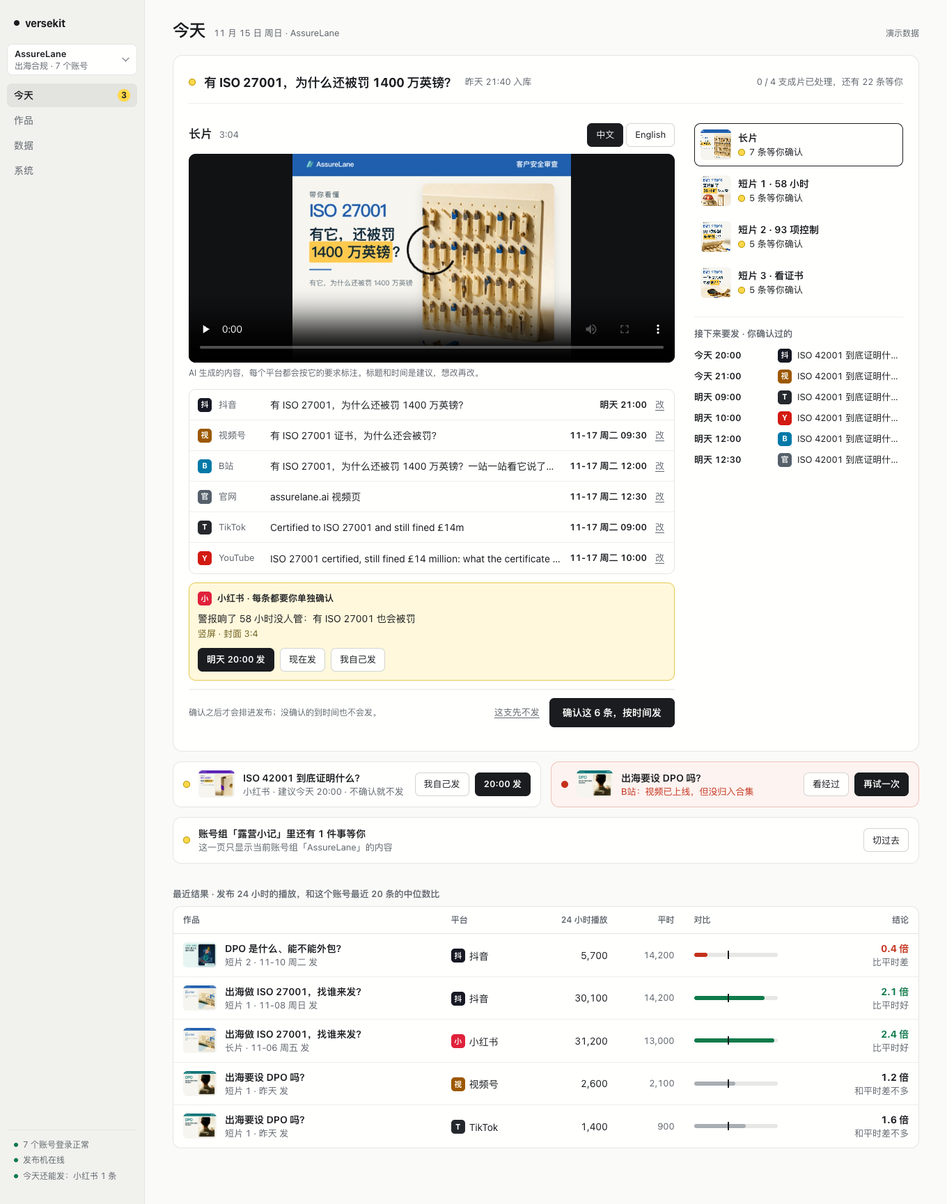
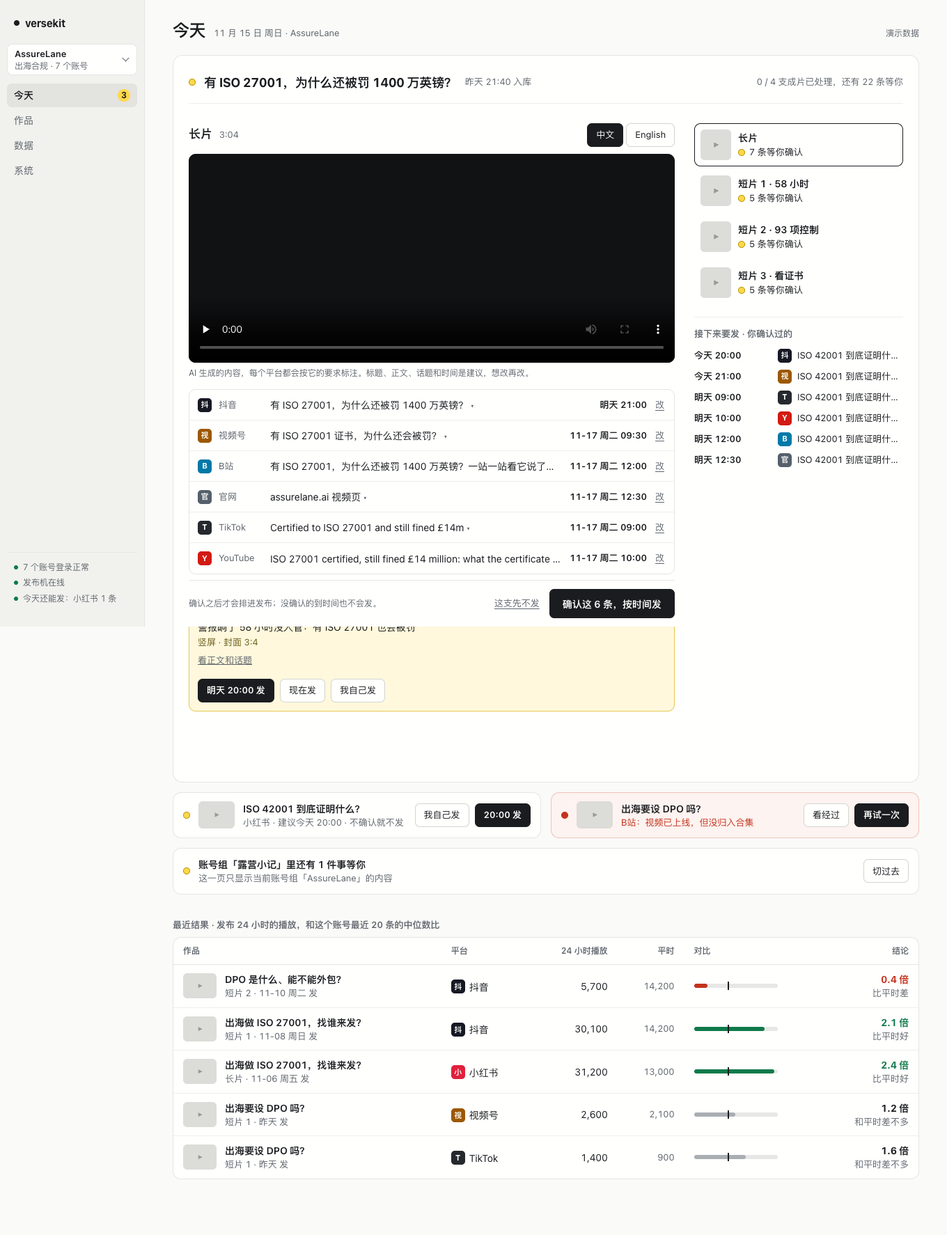
feat(web): 确认时看得到、改得了每个平台的正文和话题（#175） (#182)
* feat(web): 确认时看得到、改得了每个平台的正文和话题（#175）

确认只显示标题和时间，等于看不到发出去的内容。先改原型和任务书，再让面板每行可展开、
可改正文与话题；publish.edit 加 body/tags（按平台文案限制校验，超限不截断）；
飞书确认卡片带正文前 3 行和话题。

* fix(cli): vk publish edit 支持 --body/--tags，并重拍受影响的 v2 基线截图（#175）

CLI 完整律：Web 能改的正文和话题，CLI 也要能改。--body/--tags 要登记为带值参数，
否则会被当成布尔开关而报用法错误。原型改了展开入口，基线截图同步重拍。

* fix(core): publish.edit 的空正文不再被 parseArgs 丢掉，清空正文真正生效（#175）

可选参数的空字符串一律当没填，导致 CLI/HTTP/Web 清空正文都被静默吞掉。
只对 publish.edit 的 body 保留空串，其他可选参数行为不变。

---------

diff --git a/docs/design/app.js b/docs/design/app.js
@@ -26,10 +26,10 @@ const WORKS = [
       { id: 'long', name: '长片', dur: '3:04', poster: CV + 'iso27001-machine-4x3.jpg',
         versions: [['中文', VID + 'renders/iso27001-machine.mp4'], ['English', VID + 'en/renders/iso27001-machine-en-16x9.mp4']],
         pubs: [
-          p('xhs', '2026-11-16T20:00', '警报响了 58 小时没人管：有 ISO 27001 也会被罚', { solo: true, note: '竖屏 · 封面 3:4' }),
-          p('dy', '2026-11-16T21:00', '有 ISO 27001，为什么还被罚 1400 万英镑？'),
+          p('xhs', '2026-11-16T20:00', '警报响了 58 小时没人管：有 ISO 27001 也会被罚', { solo: true, note: '竖屏 · 封面 3:4', body: 'Capita 持有 ISO 27001，警报响了 58 小时没人处理，最后被罚 1400 万英镑。\n证书证明的是“有流程”，不是“流程被执行”。\n看完这条，你能知道审核时该盯哪三处。', tags: ['ISO27001', '信息安全', '合规', '出海'] }),
+          p('dy', '2026-11-16T21:00', '有 ISO 27001，为什么还被罚 1400 万英镑？', { body: '证书不等于安全：Capita 的 58 小时警报事件，说明了什么。', tags: ['ISO27001', '信息安全'] }),
           p('sph', '2026-11-17T09:30', '有 ISO 27001 证书，为什么还会被罚？'),
-          p('bili', '2026-11-17T12:00', '有 ISO 27001，为什么还被罚 1400 万英镑？一站一站看它说了什么、没说什么', { note: '发完归入合集「出海合规」' }),
+          p('bili', '2026-11-17T12:00', '有 ISO 27001，为什么还被罚 1400 万英镑？一站一站看它说了什么、没说什么', { note: '发完归入合集「出海合规」', body: '0:00 事件经过\n1:10 证书到底证明什么\n2:20 审核时该盯哪三处', tags: ['ISO27001', '合规', '科普'] }),
           p('web', '2026-11-17T12:30', 'assurelane.ai 视频页'),
           p('tk', '2026-11-17T09:00', 'Certified to ISO 27001 and still fined £14m', { lang: 'English' }),
           p('yt', '2026-11-17T10:00', 'ISO 27001 certified, still fined £14 million: what the certificate says and what it doesn’t', { lang: 'English' }),
@@ -156,10 +156,15 @@ function initShell() {
   listeners.push(upd); upd();
 }
 
+// 正文与话题：展开看；为空就明说「没有正文」「没有话题」，不阻止确认。
+const tagList = (text) => [...new Set(String(text || '').split(/[,，、\s]+/).map((t) => t.trim().replace(/^#+/, '')).filter(Boolean))];
+const detHtml = (x) => `<div class="pdet"><div class="dl"><span class="k">正文</span><div class="bd">${x.body ? esc(x.body) : '<span class="none">没有正文</span>'}</div></div><div class="dl"><span class="k">话题</span>${(x.tags || []).length ? `<div class="tags">${x.tags.map((t) => `<span class="tag">#${esc(t)}</span>`).join('')}</div>` : '<div class="bd"><span class="none">没有话题</span></div>'}</div></div>`;
+const editFields = (x, i, name) => `<div class="ef"><label class="lab" for="b${i}">正文</label><textarea id="b${i}" data-body="${i}" aria-label="${name} 正文">${esc(x.body || '')}</textarea><label class="lab" for="t${i}">话题（用逗号或空格分开）</label><input type="text" id="t${i}" value="${esc((x.tags || []).map((t) => '#' + t).join(' '))}" data-tags="${i}" aria-label="${name} 话题"></div>`;
+
 // ---------- 成片面板：视频 + 各平台一行 + 小红书单独一块 + 一个确认按钮。发过的成片也用它，只是每行换成结果。
 function confirmPanel(work, cut, opts = {}) {
   const el = $(`<section class="cp ${cut.vert ? 'vert' : ''}" aria-label="${esc(cut.name)}"></section>`);
-  let ver = 0; const editing = new Set(); const one = work.cuts.length === 1;
+  let ver = 0; const editing = new Set(); const opened = new Set(); const one = work.cuts.length === 1;
   const render = () => {
     const batch = cutBatch(cut); const solo = cut.pubs.filter((x) => x.solo && x.state !== 'published'); const rest = cut.pubs.filter((x) => !solo.includes(x));
     const media = cut.versions.length
@@ -170,24 +175,28 @@ function confirmPanel(work, cut, opts = {}) {
       <div class="cph"><h3>${esc(cut.name)}</h3><span class="sub">${cut.dur}</span>
         <span class="vers">${(cut.versions.length > 1 ? cut.versions : []).map((v, i) => `<button class="btn" data-ver="${i}" aria-pressed="${i === ver}">${v[0]}</button>`).join('')}</span></div>
       ${media}
-      <div class="ai">${anyOpen ? 'AI 生成的内容，每个平台都会按它的要求标注。标题和时间是建议，想改再改。' : 'AI 生成的内容，每个平台都按它的要求标注了。'}</div>
+      <div class="ai">${anyOpen ? 'AI 生成的内容，每个平台都会按它的要求标注。标题、正文、话题和时间是建议，想改再改。' : 'AI 生成的内容，每个平台都按它的要求标注了。'}</div>
       <div class="rows">${rest.map((x) => {
         const i = cut.pubs.indexOf(x); const w = when(x.at); const name = PF[x.pf][1];
-        if (editing.has(i)) return `<div class="prow ed">${pf(x.pf)}<span class="nm">${name}</span><input type="text" value="${esc(x.title)}" data-title="${i}" aria-label="${name} 标题"><input type="datetime-local" value="${x.at}" data-at="${i}" aria-label="${name} 发布时间"><button class="btn" data-save="${i}">好了</button></div>`;
+        if (editing.has(i)) return `<div class="prow ed">${pf(x.pf)}<span class="nm">${name}</span><input type="text" value="${esc(x.title)}" data-title="${i}" aria-label="${name} 标题"><input type="datetime-local" value="${x.at}" data-at="${i}" aria-label="${name} 发布时间"><button class="btn" data-save="${i}">好了</button>${editFields(x, i, name)}</div>`;
         let st;
-        if (x.state === 'pending') st = `<button class="link" data-edit="${i}" aria-label="改${name}的标题或时间">改</button>`;
+        if (x.state === 'pending') st = `<button class="link" data-edit="${i}" aria-label="改${name}的标题、正文、话题或时间">改</button>`;
         else if (x.state === 'confirmed') st = '<span class="st sched">已确认</span>';
         else if (x.state === 'skip') st = '<span class="st">不发</span>';
         else if (x.issue && !x.issue.done) st = '<span class="st bad">出了问题</span>';
         else st = x.n != null ? `<span class="x ${ratio(x).cls}" title="24 小时 ${fmt(x.n)} 播放，平时 ${fmt(BASE[x.pf])}">${ratio(x).txt}</span>` : '<span class="st pub">已发布</span>';
-        return `<div class="prow ${x.state === 'skip' ? 'off' : ''} ${x.issue && !x.issue.done ? 'bad' : ''}">${pf(x.pf)}<span class="nm">${name}</span><span class="ti" title="${esc(x.title)}">${esc(x.title)}${x.note ? `<span class="sub"> · ${esc(x.note)}</span>` : ''}</span><span class="tm">${w.text}</span>${st}</div>`;
+        return `<div class="prow ${x.state === 'skip' ? 'off' : ''} ${x.issue && !x.issue.done ? 'bad' : ''}">${pf(x.pf)}<span class="nm">${name}</span><button class="ti tog" type="button" data-more="${i}" aria-expanded="${opened.has(i)}" title="${esc(x.title)}">${esc(x.title)}${x.note ? `<span class="sub"> · ${esc(x.note)}</span>` : ''}</button><span class="tm">${w.text}</span>${st}${opened.has(i) ? detHtml(x) : ''}</div>`;
       }).join('')}</div>
       ${solo.map((x) => {
         const i = cut.pubs.indexOf(x); const w = when(x.at);
         const body = x.state === 'pending'
           ? `<div class="acts"><button class="btn pri" data-solo="confirmed" data-i="${i}">${w.text} 发</button><button class="btn" data-solo="now" data-i="${i}">现在发</button><button class="btn" data-solo="manual" data-i="${i}">我自己发</button></div>`
           : `<div class="acts"><span class="st ${x.state === 'skip' ? '' : 'done'}">${{ confirmed: `已确认，${w.text} 发`, now: '已确认，正在发', manual: '你自己发，发完告诉我', skip: '先不发' }[x.state]}</span></div>`;
-        return `<div class="solo"><div class="sh">${pf('xhs')}小红书 · 每条都要你单独确认</div><div class="ti">${esc(x.title)}</div><div class="sub">${esc(x.note || '竖屏 · 封面 3:4')}</div>${body}</div>`;
+        const ed = editing.has(i);
+        const head = ed
+          ? `<div class="ef"><label class="lab" for="st${i}">标题</label><input type="text" id="st${i}" value="${esc(x.title)}" data-title="${i}" aria-label="小红书 标题"><label class="lab" for="sa${i}">发布时间</label><input type="datetime-local" id="sa${i}" value="${x.at}" data-at="${i}" aria-label="小红书 发布时间"></div>${editFields(x, i, '小红书')}<div class="acts"><button class="btn" data-save="${i}">好了</button></div>`
+          : `<div class="ti">${esc(x.title)}</div><div class="sub">${esc(x.note || '竖屏 · 封面 3:4')}</div><button class="tog" type="button" data-more="${i}" aria-expanded="${opened.has(i)}">${opened.has(i) ? '收起正文和话题' : '看正文和话题'}</button>${opened.has(i) ? detHtml(x) : ''}`;
+        return `<div class="solo"><div class="sh">${pf('xhs')}小红书 · 每条都要你单独确认${x.state === 'pending' && !ed ? '<button class="link" style="margin-left:auto" data-edit="' + i + '" aria-label="改小红书的标题、正文、话题或时间">改</button>' : ''}</div>${head}${ed ? '' : body}</div>`;
       }).join('')}
       ${batch.length
         ? `<div class="cfoot"><span class="hint">确认之后才会排进发布；没确认的到时间也不会发。</span><button class="link" data-skipcut>${one ? '先不发' : '这支先不发'}</button><button class="btn pri lg" data-confirm>确认这 ${batch.length} 条，按时间发</button></div>`
@@ -198,7 +207,8 @@ function confirmPanel(work, cut, opts = {}) {
     const b = e.target.closest('button'); if (!b) return; const ds = b.dataset;
     if (ds.ver) ver = +ds.ver;
     else if (ds.edit) editing.add(+ds.edit);
-    else if (ds.save) { const i = +ds.save; cut.pubs[i].title = el.querySelector(`[data-title="${i}"]`).value; cut.pubs[i].at = el.querySelector(`[data-at="${i}"]`).value || cut.pubs[i].at; editing.delete(i); }
+    else if (ds.more) { const i = +ds.more; opened.has(i) ? opened.delete(i) : opened.add(i); }
+    else if (ds.save) { const i = +ds.save; const x = cut.pubs[i]; x.title = el.querySelector(`[data-title="${i}"]`).value; x.at = el.querySelector(`[data-at="${i}"]`).value || x.at; x.body = el.querySelector(`[data-body="${i}"]`).value.trim(); x.tags = tagList(el.querySelector(`[data-tags="${i}"]`).value); editing.delete(i); opened.add(i); }
     else if (ds.solo) { cut.pubs[+ds.i].state = ds.solo; toast(ds.solo === 'manual' ? '好，这条你自己发' : '小红书这条已确认'); changed(); }
     else if (ds.retry) { cut.pubs[+ds.retry].issue.done = true; toast('正在重试'); changed(); }
     else if ('skipcut' in ds) { cutPending(cut).forEach((x) => (x.state = 'skip')); cut.skipped = true; opts.onDone && opts.onDone(); changed(); }

diff --git a/packages/web/public/panel.js b/packages/web/public/panel.js
@@ -47,6 +47,20 @@ window.VKPanel = function createPanel(state) {
   const ratioCls = (x) => (x == null ? "" : x >= 2 ? "up" : x <= 0.5 ? "dn" : "");
 
 
+  // 正文与话题：展开看；为空就明说「没有正文」「没有话题」，不阻止确认（ACC-v2-copy-04）。
+  // 状态词与 docs/design/app.js 的 detHtml / editFields 逐句一致。
+  const detHtml = (p) =>
+    `<div class="pdet"><div class="dl"><span class="k">正文</span><div class="bd">${p.body ? esc(p.body) : '<span class="none">没有正文</span>'}</div></div>` +
+    `<div class="dl"><span class="k">话题</span>${(p.tags ?? []).length
+      ? `<div class="tags">${p.tags.map((t) => `<span class="tag">#${esc(t)}</span>`).join("")}</div>`
+      : '<div class="bd"><span class="none">没有话题</span></div>'}</div></div>`;
+  const editFields = (p, name) =>
+    `<div class="ef"><label class="lab" for="b-${esc(p.id)}">正文</label>` +
+    `<textarea id="b-${esc(p.id)}" data-body="${esc(p.id)}" aria-label="${esc(name)} 正文">${esc(p.body ?? "")}</textarea>` +
+    `<label class="lab" for="t-${esc(p.id)}">话题（用逗号或空格分开）</label>` +
+    `<input type="text" id="t-${esc(p.id)}" value="${esc((p.tags ?? []).map((t) => "#" + t).join(" "))}" data-tags="${esc(p.id)}" aria-label="${esc(name)} 话题"></div>`;
+  const isOpen = (id) => Boolean(state.opened?.has(id));
+
   const pending = (cut) => (cut?.publishes ?? []).filter((p) => p.state === "pending_confirm");
   const batchOf = (cut) => pending(cut).filter((p) => !PER_ITEM.has(p.platform));
   const soloOf = (cut) => (cut?.publishes ?? []).filter((p) => PER_ITEM.has(p.platform) && !["published", "published_limited"].includes(p.state));
@@ -66,7 +80,7 @@ window.VKPanel = function createPanel(state) {
   }
 
   function rowState(p) {
-    if (p.state === "pending_confirm") return `<button class="link" type="button" data-edit="${esc(p.id)}" aria-label="改${esc(pfName(p.platform))}的标题或时间">改</button>`;
+    if (p.state === "pending_confirm") return `<button class="link" type="button" data-edit="${esc(p.id)}" aria-label="改${esc(pfName(p.platform))}的标题、正文、话题或时间">改</button>`;
     if (p.state === "queued") return '<span class="st sched">已确认</span>';
     if (p.state === "auto_running" || p.state === "draft_running") return '<span class="st sched">发布中</span>';
     if (p.state === "notify_pending") return '<span class="st wait">待人工确认</span>';
@@ -101,12 +115,12 @@ window.VKPanel = function createPanel(state) {
         return `<div class="prow ed">${pfBadge(p.platform)}<span class="nm">${esc(name)}</span>` +
           `<input type="text" value="${esc(p.title)}" data-title="${esc(p.id)}" aria-label="${esc(name)} 标题">` +
           `<input type="datetime-local" value="${esc(local)}" data-at="${esc(p.id)}" aria-label="${esc(name)} 发布时间">` +
-          `<button class="btn" type="button" data-save="${esc(p.id)}">好了</button></div>`;
+          `<button class="btn" type="button" data-save="${esc(p.id)}">好了</button>${editFields(p, name)}</div>`;
       }
       return `<div class="prow ${p.state === "skipped" ? "off" : ""} ${bad ? "bad" : ""}">${pfBadge(p.platform)}` +
         `<span class="nm">${esc(name)}</span>` +
-        `<span class="ti" title="${esc(p.title)}">${esc(p.title)}</span>` +
-        `<span class="tm">${esc(w.text)}</span>${rowState(p)}</div>`;
+        `<button class="ti tog" type="button" data-more="${esc(p.id)}" aria-expanded="${isOpen(p.id)}" title="${esc(p.title)}">${esc(p.title)}</button>` +
+        `<span class="tm">${esc(w.text)}</span>${rowState(p)}${isOpen(p.id) ? detHtml(p) : ""}</div>`;
     }).join("");
 
     const soloBlocks = solo.map((p) => {
@@ -119,8 +133,18 @@ window.VKPanel = function createPanel(state) {
         : `<div class="acts"><span class="st ${p.state === "skipped" ? "" : "done"}">${
             { queued: `已确认，${w.text} 发`, notify_pending: "你自己发，发完告诉我", skipped: "先不发" }[p.state] ?? "已处理"
           }</span></div>`;
-      return `<div class="solo"><div class="sh">${pfBadge("xiaohongshu")}小红书 · 每条都要你单独确认</div>` +
-        `<div class="ti">${esc(p.title)}</div><div class="sub">${esc(w.text)} 发</div>${acts}</div>`;
+      const ed = state.editing.has(p.id);
+      const editBtn = p.state === "pending_confirm" && !ed
+        ? `<button class="link" type="button" style="margin-left:auto" data-edit="${esc(p.id)}" aria-label="改小红书的标题、正文、话题或时间">改</button>` : "";
+      const head = ed
+        ? `<div class="ef"><label class="lab" for="st-${esc(p.id)}">标题</label>` +
+          `<input type="text" id="st-${esc(p.id)}" value="${esc(p.title)}" data-title="${esc(p.id)}" aria-label="小红书 标题">` +
+          `<label class="lab" for="sa-${esc(p.id)}">发布时间</label>` +
+          `<input type="datetime-local" id="sa-${esc(p.id)}" value="${esc(p.scheduledAt == null ? "" : VK.toLocalStamp(p.scheduledAt))}" data-at="${esc(p.id)}" aria-label="小红书 发布时间"></div>` +
+          `${editFields(p, "小红书")}<div class="acts"><button class="btn" type="button" data-save="${esc(p.id)}">好了</button></div>`
+        : `<div class="ti">${esc(p.title)}</div><div class="sub">${esc(w.text)} 发</div>` +
+          `<button class="tog" type="button" data-more="${esc(p.id)}" aria-expanded="${isOpen(p.id)}">${isOpen(p.id) ? "收起正文和话题" : "看正文和话题"}</button>${isOpen(p.id) ? detHtml(p) : ""}`;
+      return `<div class="solo"><div class="sh">${pfBadge("xiaohongshu")}小红书 · 每条都要你单独确认${editBtn}</div>${head}${ed ? "" : acts}</div>`;
     }).join("");
 
     const foot = batch.length
@@ -137,7 +161,7 @@ window.VKPanel = function createPanel(state) {
       `<div class="cph"><h3>${esc(cut.title)}</h3>` +
       `<span class="vers">${showVers ? versions.map((v) => `<button class="btn" type="button" data-ver="${esc(cut.id)}:${esc(v.id)}" aria-pressed="${(state.ver.get(cut.id) ?? versions[0].id) === v.id}">${esc(v.language)}</button>`).join("") : ""}</span></div>` +
       mediaBox(cut) +
-      `<div class="ai">${anyOpen ? "AI 生成的内容，每个平台都会按它的要求标注。标题和时间是建议，想改再改。" : "AI 生成的内容，每个平台都按它的要求标注了。"}</div>` +
+      `<div class="ai">${anyOpen ? "AI 生成的内容，每个平台都会按它的要求标注。标题、正文、话题和时间是建议，想改再改。" : "AI 生成的内容，每个平台都按它的要求标注了。"}</div>` +
       `<div class="rows">${rows}</div>${soloBlocks}${foot}</section>`;
   }
 

diff --git a/packages/web/public/app.css b/packages/web/public/app.css
@@ -340,6 +340,26 @@ a.hint{display:inline-flex;align-items:center;min-height:32px;text-underline-off
 .prow .tm{font-size:13px;font-weight:600;white-space:nowrap}
 .prow.ed{grid-template-columns:20px 64px minmax(0,1fr) auto auto}
 .prow.ed input[type=text]{width:100%}
+/* 每条平台稿能展开看正文和话题；「改」里能改标题、正文、话题、时间（#175） */
+.prow{align-content:center}
+.prow .tog{font:inherit;font-size:14px;color:var(--ink);background:none;border:0;padding:0;text-align:left;cursor:pointer;white-space:nowrap;overflow:hidden;text-overflow:ellipsis;min-width:0;min-height:32px}
+.prow .tog::after{content:" ▾";color:var(--ink2);font-size:12px}
+.prow .tog[aria-expanded=true]::after{content:" ▴"}
+.pdet{grid-column:1/-1;padding:2px 0 10px 30px;display:grid;gap:6px;font-size:13px}
+.pdet .dl{display:grid;grid-template-columns:40px minmax(0,1fr);gap:8px;align-items:start}
+.pdet .k{color:var(--ink2)}
+.pdet .bd{white-space:pre-wrap;overflow-wrap:anywhere;color:var(--ink)}
+.pdet .none{color:var(--ink2)}
+.pdet .tags{display:flex;gap:6px;flex-wrap:wrap}
+.pdet .tag{border:1px solid var(--line);border-radius:6px;padding:1px 7px;background:var(--paper)}
+.prow.ed .ef{grid-column:3/-1;display:grid;gap:6px}
+.prow.ed textarea{width:100%;min-height:84px;border:1px solid var(--ctl);border-radius:7px;padding:7px 9px;font:inherit;font-size:14px;line-height:1.5;background:var(--paper);resize:vertical}
+.prow.ed .lab{font-size:12px;color:var(--ink2)}
+.solo .pdet{padding:6px 0 0}
+.solo .tog{font:inherit;font-size:13px;background:none;border:0;padding:0;color:var(--ink2);text-decoration:underline;cursor:pointer;min-height:32px}
+.solo .ef{display:grid;gap:6px;margin-top:8px}
+.solo .ef textarea{width:100%;min-height:84px;border:1px solid var(--ctl);border-radius:7px;padding:7px 9px;font:inherit;font-size:14px;line-height:1.5;background:var(--paper);resize:vertical}
+.solo .ef .lab{font-size:12px;color:#6b5d1c}
 .prow.off .ti,.prow.off .tm{color:var(--ink2);text-decoration:line-through}
 .prow.bad{background:var(--bad-bg)}
 .solo{margin-top:12px;border:1px solid var(--mark-line);background:var(--mark-bg);border-radius:var(--r);padding:12px}
@@ -426,6 +446,8 @@ a.hint{display:inline-flex;align-items:center;min-height:32px;text-underline-off
   .prow .nm{display:none}
   .prow .tm{grid-column:2}
   .prow.ed input[type=datetime-local]{grid-column:2}
+  .prow.ed .ef{grid-column:2/-1}
+  .pdet{padding-left:0}
   .cp video,.cp .poster,.cp.vert video,.cp.vert .poster,.media-fallback,.cp.vert .media-fallback{height:220px}
   .app .grp{flex:1 1 100%;margin:0}
   .app .grp .menu{position:static;margin-top:4px}

diff --git a/docs/design/app.css b/docs/design/app.css
@@ -124,6 +124,26 @@ a.wcell:hover b{text-decoration:underline}
 .prow .tm{font-size:13px;font-weight:600;white-space:nowrap}
 .prow.ed{grid-template-columns:20px 64px minmax(0,1fr) auto auto}
 .prow.ed input[type=text]{width:100%}
+/* 每条平台稿能展开看正文和话题；「改」里能改标题、正文、话题、时间（#175） */
+.prow{align-content:center}
+.prow .tog{font:inherit;font-size:14px;color:var(--ink);background:none;border:0;padding:0;text-align:left;cursor:pointer;white-space:nowrap;overflow:hidden;text-overflow:ellipsis;min-width:0;min-height:32px}
+.prow .tog::after{content:" ▾";color:var(--ink2);font-size:12px}
+.prow .tog[aria-expanded=true]::after{content:" ▴"}
+.pdet{grid-column:1/-1;padding:2px 0 10px 30px;display:grid;gap:6px;font-size:13px}
+.pdet .dl{display:grid;grid-template-columns:40px minmax(0,1fr);gap:8px;align-items:start}
+.pdet .k{color:var(--ink2)}
+.pdet .bd{white-space:pre-wrap;overflow-wrap:anywhere;color:var(--ink)}
+.pdet .none{color:var(--ink2)}
+.pdet .tags{display:flex;gap:6px;flex-wrap:wrap}
+.pdet .tag{border:1px solid var(--line);border-radius:6px;padding:1px 7px;background:var(--paper)}
+.prow.ed .ef{grid-column:3/-1;display:grid;gap:6px}
+.prow.ed textarea{width:100%;min-height:84px;border:1px solid var(--ctl);border-radius:7px;padding:7px 9px;font:inherit;font-size:14px;line-height:1.5;background:var(--paper);resize:vertical}
+.prow.ed .lab{font-size:12px;color:var(--ink2)}
+.solo .pdet{padding:6px 0 0}
+.solo .tog{font:inherit;font-size:13px;background:none;border:0;padding:0;color:var(--ink2);text-decoration:underline;cursor:pointer;min-height:32px}
+.solo .ef{display:grid;gap:6px;margin-top:8px}
+.solo .ef textarea{width:100%;min-height:84px;border:1px solid var(--ctl);border-radius:7px;padding:7px 9px;font:inherit;font-size:14px;line-height:1.5;background:var(--paper);resize:vertical}
+.solo .ef .lab{font-size:12px;color:#6b5d1c}
 .prow.off .ti,.prow.off .tm{color:var(--ink2);text-decoration:line-through}
 .prow.bad{background:var(--bad-bg)}
 .solo{margin-top:12px;border:1px solid var(--mark-line);background:var(--mark-bg);border-radius:var(--r);padding:12px}
@@ -163,5 +183,7 @@ a.wcell:hover b{text-decoration:underline}
   .prow .nm{display:none}
   .prow .tm{grid-column:2}
   .prow.ed input[type=datetime-local]{grid-column:2}
+  .prow.ed .ef{grid-column:2/-1}
+  .pdet{padding-left:0}
   .cp video,.cp .poster,.cp.vert video,.cp.vert .poster{height:220px}
 }

diff --git a/packages/web/public/work.html b/packages/web/public/work.html
@@ -37,7 +37,7 @@
   const main = document.getElementById("main");
   const params = new URLSearchParams(location.search);
   const id = params.get("id");
-  const state = { work: null, cutId: params.get("cut"), editing: new Set(), ver: new Map() };
+  const state = { work: null, cutId: params.get("cut"), editing: new Set(), opened: new Set(), ver: new Map() };
   const { esc, pfBadge, pfName, when, fmt, ratioText, ratioCls, pending, cutHasPending, fallback, confirmPanel, cutSteps } = window.VKPanel(state);
 
   const PROBLEM = new Set(["failed", "blocked", "expired"]);
@@ -151,16 +151,21 @@
   }
 
   main.addEventListener("click", (event) => {
-    const el = event.target.closest("[data-cut],[data-edit],[data-save],[data-confirm],[data-skip],[data-solo],[data-retry],[data-ver]");
+    const el = event.target.closest("[data-cut],[data-edit],[data-more],[data-save],[data-confirm],[data-skip],[data-solo],[data-retry],[data-ver]");
     if (!el) return;
     const d = el.dataset;
     if (d.cut) { state.cutId = d.cut; render(); return; }
     if (d.edit) { state.editing.add(d.edit); render(); return; }
+    if (d.more) { state.opened.has(d.more) ? state.opened.delete(d.more) : state.opened.add(d.more); render(); return; }
     if (d.save) {
       const pub = d.save;
       const title = main.querySelector(`[data-title="${pub}"]`)?.value ?? null;
       const at = main.querySelector(`[data-at="${pub}"]`)?.value ?? null;
-      act(async () => { await VK.editPublish(pub, { title, at: at || null }); }, "改好了，确认时按新的发");
+      // 正文、话题只在改过时才传：没动就不写进这条平台稿，免得把入库时的文案固定住。
+      const changed = (sel) => { const f = main.querySelector(sel); return f && f.value !== f.defaultValue ? f.value : null; };
+      const body = changed(`[data-body="${pub}"]`);
+      const tags = changed(`[data-tags="${pub}"]`);
+      act(async () => { await VK.editPublish(pub, { title, at: at || null, body, tags }); state.editing.delete(pub); state.opened.add(pub); }, "改好了，确认时按新的发");
       return;
     }
     if (d.ver) { const [cutId, versionId] = d.ver.split(":"); state.ver.set(cutId, versionId); render(); return; }

diff --git a/packages/web/public/today.html b/packages/web/public/today.html
@@ -42,7 +42,7 @@
 (async function () {
   const VK = window.VK;
   const main = document.getElementById("main");
-  const state = { data: null, focusId: null, cutId: null, cache: new Map(), editing: new Set(), ver: new Map() };
+  const state = { data: null, focusId: null, cutId: null, cache: new Map(), editing: new Set(), opened: new Set(), ver: new Map() };
   const { esc, BLANK, pfBadge, pfName, when, fmt, ratioText, ratioCls, WD, pending, cutHasPending, fallback, confirmPanel, cutSteps } = window.VKPanel(state);
 
   async function loadWork(id) {
@@ -185,21 +185,27 @@
   }
 
   main.addEventListener("click", (event) => {
-    const el = event.target.closest("[data-cut],[data-edit],[data-save],[data-confirm],[data-skip],[data-solo],[data-retry],[data-ver],[data-group]");
+    const el = event.target.closest("[data-cut],[data-edit],[data-more],[data-save],[data-confirm],[data-skip],[data-solo],[data-retry],[data-ver],[data-group]");
     if (!el) return;
     const d = el.dataset;
 
     if (d.cut) { state.cutId = d.cut; render(); return; }
 
     if (d.edit) { state.editing.add(d.edit); render(); return; }
+    if (d.more) { state.opened.has(d.more) ? state.opened.delete(d.more) : state.opened.add(d.more); render(); return; }
 
     if (d.save) {
       const pub = d.save;
       const title = main.querySelector(`[data-title="${pub}"]`)?.value ?? null;
       const at = main.querySelector(`[data-at="${pub}"]`)?.value ?? null;
+      // 正文、话题只在改过时才传：没动就不写进这条平台稿，免得把入库时的文案固定住。
+      const changed = (sel) => { const f = main.querySelector(sel); return f && f.value !== f.defaultValue ? f.value : null; };
+      const body = changed(`[data-body="${pub}"]`);
+      const tags = changed(`[data-tags="${pub}"]`);
       act(async () => {
-        await VK.editPublish(pub, { title, at: at || null });
+        await VK.editPublish(pub, { title, at: at || null, body, tags });
         state.editing.delete(pub);
+        state.opened.add(pub);
       }, "改好了，确认时按新的发");
       return;
     }

diff --git a/packages/web/public/api.js b/packages/web/public/api.js
@@ -426,10 +426,12 @@
   }
 
   /** 改标题 / 改时间 = 命令 publish.edit；时间是毫秒，页面传本地时间字符串。 */
-  async function editPublish(publishId, { title = null, at = null } = {}) {
+  async function editPublish(publishId, { title = null, at = null, body: text = null, tags = null } = {}) {
     if (!publishId) throw new Error("先指定一条平台稿");
     const body = { publishId };
     if (title != null) body.title = String(title).trim();
+    if (text != null) body.body = String(text);
+    if (tags != null) body.tags = Array.isArray(tags) ? tags : VK.parseTags(tags);
     if (at != null) {
       const ms = typeof at === "number" ? at : fromLocalStamp(at);
       if (!Number.isFinite(ms)) throw new Error("时间格式不对：" + at);
@@ -496,6 +498,8 @@
   VK.publishNow = publishNow;
   VK.publishManual = publishManual;
   VK.skipCut = skipCut;
+  /** 话题输入：逗号、顿号、空格、# 都能分；去掉 # 和重复。 */
+  VK.parseTags = (text) => [...new Set(String(text ?? "").split(/[,，、\s]+/).map((t) => t.trim().replace(/^#+/, "")).filter(Boolean))];
   VK.editPublish = editPublish;
   VK.retryPublish = retryPublish;
 })();
